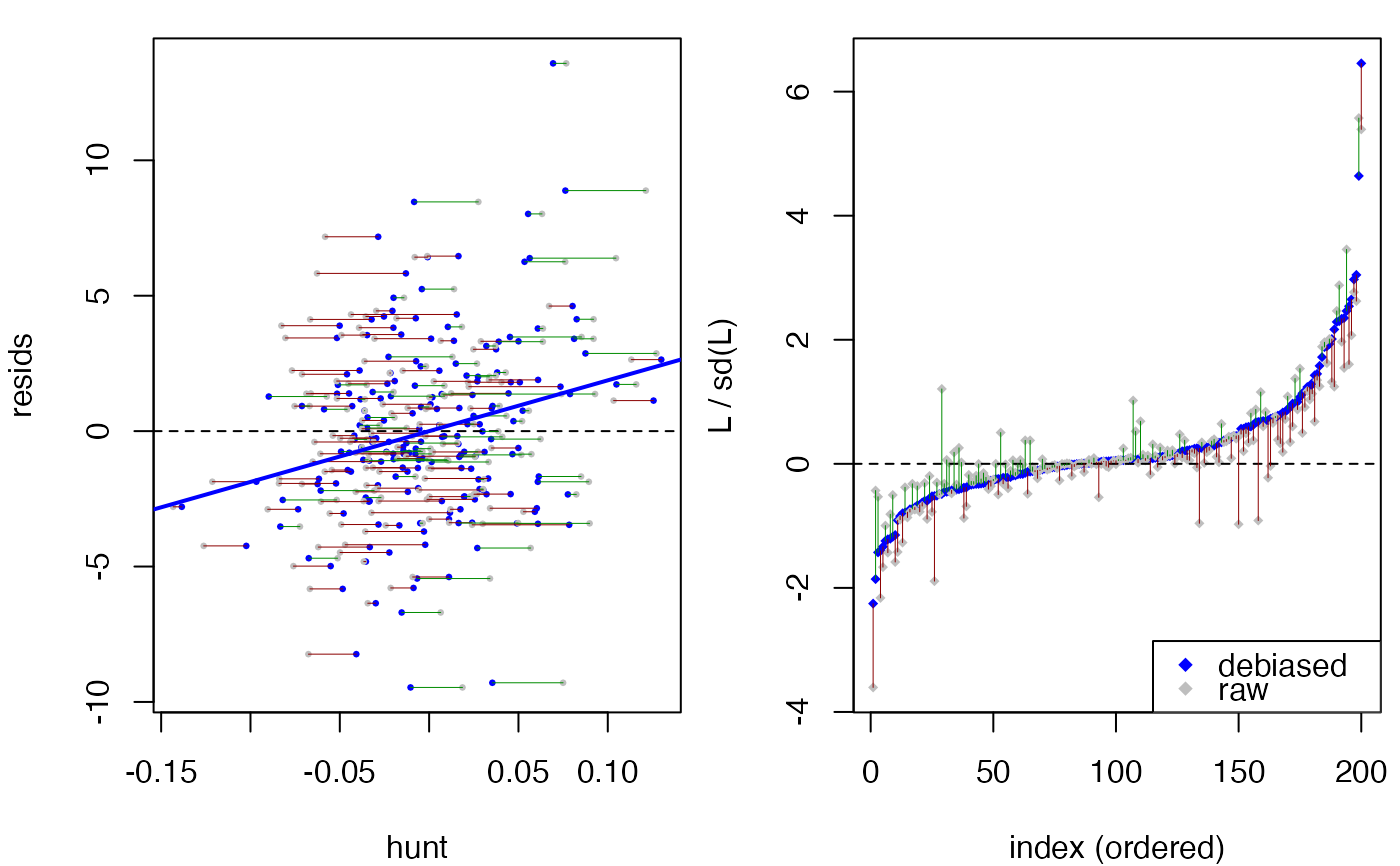
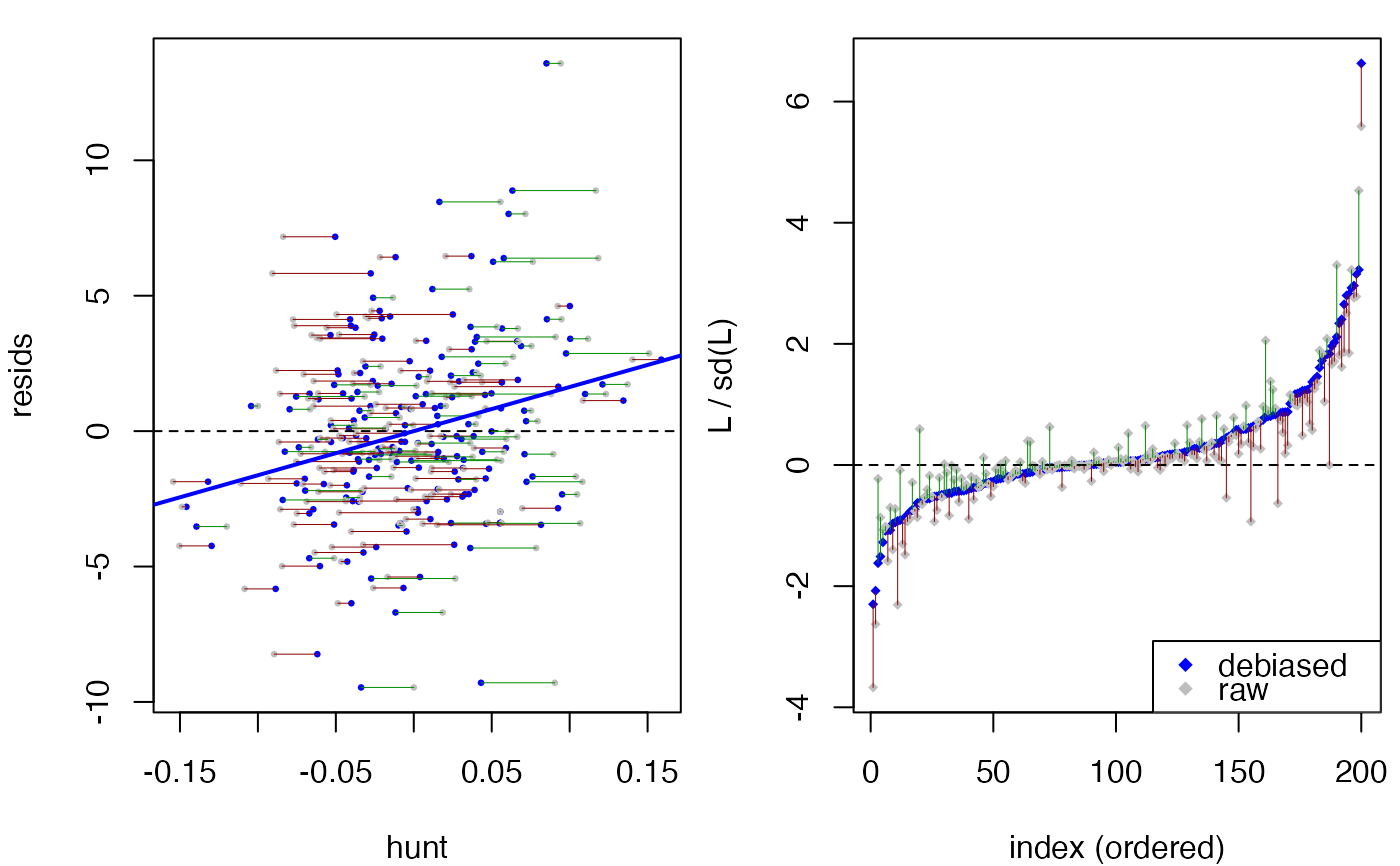
Built site for dScoreTest@0.1.0:

diff --git a/articles/glm.html b/articles/glm.html
@@ -1,0 +1,201 @@
+<!DOCTYPE html>
+<!-- Generated by pkgdown: do not edit by hand --><html lang="en">
+<head>
+<meta http-equiv="Content-Type" content="text/html; charset=UTF-8">
+<meta charset="utf-8">
+<meta http-equiv="X-UA-Compatible" content="IE=edge">
+<meta name="viewport" content="width=device-width, initial-scale=1, shrink-to-fit=no">
+<title>Link function in GLM • dScoreTest</title>
+<!-- favicons --><link rel="icon" type="image/png" sizes="96x96" href="../favicon-96x96.png">
+<link rel="icon" type="”image/svg+xml”" href="../favicon.svg">
+<link rel="apple-touch-icon" sizes="180x180" href="../apple-touch-icon.png">
+<link rel="icon" sizes="any" href="../favicon.ico">
+<link rel="manifest" href="../site.webmanifest">
+<script src="../deps/jquery-3.6.0/jquery-3.6.0.min.js"></script><meta name="viewport" content="width=device-width, initial-scale=1, shrink-to-fit=no">
+<link href="../deps/bootstrap-5.3.1/bootstrap.min.css" rel="stylesheet">
+<script src="../deps/bootstrap-5.3.1/bootstrap.bundle.min.js"></script><link href="../deps/font-awesome-6.5.2/css/all.min.css" rel="stylesheet">
+<link href="../deps/font-awesome-6.5.2/css/v4-shims.min.css" rel="stylesheet">
+<script src="../deps/headroom-0.11.0/headroom.min.js"></script><script src="../deps/headroom-0.11.0/jQuery.headroom.min.js"></script><script src="../deps/bootstrap-toc-1.0.1/bootstrap-toc.min.js"></script><script src="../deps/clipboard.js-2.0.11/clipboard.min.js"></script><script src="../deps/search-1.0.0/autocomplete.jquery.min.js"></script><script src="../deps/search-1.0.0/fuse.min.js"></script><script src="../deps/search-1.0.0/mark.min.js"></script><!-- pkgdown --><script src="../pkgdown.js"></script><meta property="og:title" content="Link function in GLM">
+</head>
+<body>
+    <a href="#main" class="visually-hidden-focusable">Skip to contents</a>
+
+
+    <nav class="navbar navbar-expand-lg fixed-top bg-light" data-bs-theme="light" aria-label="Site navigation"><div class="container">
+
+    <a class="navbar-brand me-2" href="../index.html">dScoreTest</a>
+
+    <small class="nav-text text-muted me-auto" data-bs-toggle="tooltip" data-bs-placement="bottom" title="">0.1.0</small>
+
+
+    <button class="navbar-toggler" type="button" data-bs-toggle="collapse" data-bs-target="#navbar" aria-controls="navbar" aria-expanded="false" aria-label="Toggle navigation">
+      <span class="navbar-toggler-icon"></span>
+    </button>
+
+    <div id="navbar" class="collapse navbar-collapse ms-3">
+      <ul class="navbar-nav me-auto">
+<li class="nav-item"><a class="nav-link" href="../articles/dScoreTest.html">Get started</a></li>
+<li class="nav-item"><a class="nav-link" href="../reference/index.html">Reference</a></li>
+<li class="nav-item dropdown">
+  <button class="nav-link dropdown-toggle" type="button" id="dropdown-articles" data-bs-toggle="dropdown" aria-expanded="false" aria-haspopup="true">Articles</button>
+  <ul class="dropdown-menu" aria-labelledby="dropdown-articles">
+<li><a class="dropdown-item" href="../articles/gam.html">Checking generalized additive models</a></li>
+    <li><a class="dropdown-item" href="../articles/glm.html">Link function in GLM</a></li>
+  </ul>
+</li>
+      </ul>
+<ul class="navbar-nav">
+<li class="nav-item"><form class="form-inline" role="search">
+ <input class="form-control" type="search" name="search-input" id="search-input" autocomplete="off" aria-label="Search site" placeholder="Search for" data-search-index="../search.json">
+</form></li>
+<li class="nav-item"><a class="external-link nav-link" href="https://github.com/richardkwo/dScoreTest/" aria-label="GitHub"><span class="fa fab fa-github fa-lg"></span></a></li>
+      </ul>
+</div>
+
+
+  </div>
+</nav><div class="container template-article">
+
+
+
+
+<div class="row">
+  <main id="main" class="col-md-9"><div class="page-header">
+      <img src="../logo.png" class="logo" alt=""><h1>Link function in GLM</h1>
+            
+      
+      <small class="dont-index">Source: <a href="https://github.com/richardkwo/dScoreTest/blob/HEAD/vignettes/articles/glm.Rmd" class="external-link"><code>vignettes/articles/glm.Rmd</code></a></small>
+      <div class="d-none name"><code>glm.Rmd</code></div>
+    </div>
+
+    
+    
+<div class="sourceCode" id="cb1"><pre class="downlit sourceCode r">
+<code class="sourceCode R"><span><span class="kw"><a href="https://rdrr.io/r/base/library.html" class="external-link">library</a></span><span class="op">(</span><span class="va">dScoreTest</span><span class="op">)</span></span></code></pre></div>
+<p>The package can be used to check and compare (generalized) linear
+models with a non-canonical link function. Based on covariates
+<math display="inline" xmlns="http://www.w3.org/1998/Math/MathML"><semantics><mrow><msub><mi>X</mi><mn>1</mn></msub><mo>,</mo><msub><mi>X</mi><mn>2</mn></msub><mo>,</mo><msub><mi>X</mi><mn>3</mn></msub></mrow><annotation encoding="application/x-tex">X_1, X_2, X_3</annotation></semantics></math>,
+suppose the response is generated as
+<math display="block" xmlns="http://www.w3.org/1998/Math/MathML"><semantics><mrow><mi>Y</mi><mo>=</mo><mn>5</mn><mrow><mi mathvariant="normal">exp</mi><mo></mo></mrow><mo stretchy="false" form="prefix">(</mo><msub><mi>X</mi><mn>1</mn></msub><mo>+</mo><msub><mi>X</mi><mn>3</mn></msub><mo stretchy="false" form="postfix">)</mo><mo>+</mo><mi>ε</mi><mo>,</mo><mspace width="1.0em"></mspace><mi mathvariant="double-struck">𝔼</mi><mo stretchy="false" form="prefix">[</mo><mi>ε</mi><mo>∣</mo><mi>X</mi><mo stretchy="false" form="postfix">]</mo><mo>=</mo><mn>0</mn><mi>.</mi></mrow><annotation encoding="application/x-tex"> Y = 5 \exp(X_1 + X_3) + \varepsilon, \quad \mathbb{E}[\varepsilon \mid X] = 0. </annotation></semantics></math>
+In other words, the regression model is specified as
+<math display="block" xmlns="http://www.w3.org/1998/Math/MathML"><semantics><mrow><mrow><mi mathvariant="normal">log</mi><mo></mo></mrow><mi mathvariant="double-struck">𝔼</mi><mo stretchy="false" form="prefix">[</mo><mi>Y</mi><mo>∣</mo><mi>X</mi><mo stretchy="false" form="postfix">]</mo><mo>=</mo><mi>α</mi><mo>+</mo><msub><mi>β</mi><mn>1</mn></msub><msub><mi>X</mi><mn>1</mn></msub><mo>+</mo><msub><mi>β</mi><mn>2</mn></msub><msub><mi>X</mi><mn>2</mn></msub><mo>+</mo><msub><mi>β</mi><mn>3</mn></msub><msub><mi>X</mi><mn>3</mn></msub><mi>.</mi></mrow><annotation encoding="application/x-tex"> \log \mathbb{E}[Y \mid X] = \alpha + \beta_1 X_1 + \beta_2 X_2 + \beta_3 X_3.</annotation></semantics></math>
+To fit this generalized linear model, we must use the <em>non-canonical
+link</em> <code>family = gaussian(link = "log")</code>. Here is a simple
+simulation.</p>
+<div class="sourceCode" id="cb2"><pre class="downlit sourceCode r">
+<code class="sourceCode R"><span><span class="fu"><a href="https://rdrr.io/r/base/Random.html" class="external-link">set.seed</a></span><span class="op">(</span><span class="fl">42</span><span class="op">)</span></span>
+<span><span class="va">n</span> <span class="op">&lt;-</span> <span class="fl">1000</span></span>
+<span><span class="va">X</span> <span class="op">&lt;-</span> <span class="fu"><a href="https://rdrr.io/r/base/matrix.html" class="external-link">matrix</a></span><span class="op">(</span><span class="fu"><a href="https://rdrr.io/r/stats/Normal.html" class="external-link">rnorm</a></span><span class="op">(</span><span class="va">n</span> <span class="op">*</span> <span class="fl">3</span><span class="op">)</span>, nrow <span class="op">=</span> <span class="va">n</span><span class="op">)</span></span>
+<span><span class="va">X</span><span class="op">[</span>,<span class="fl">2</span><span class="op">]</span> <span class="op">&lt;-</span> <span class="va">X</span><span class="op">[</span>,<span class="fl">2</span><span class="op">]</span> <span class="op">+</span> <span class="fl">0.2</span> <span class="op">*</span> <span class="va">X</span><span class="op">[</span>,<span class="fl">1</span><span class="op">]</span> <span class="op">-</span> <span class="fl">0.3</span> <span class="op">*</span> <span class="va">X</span><span class="op">[</span>,<span class="fl">3</span><span class="op">]</span> </span>
+<span><span class="va">X</span><span class="op">[</span>,<span class="fl">3</span><span class="op">]</span> <span class="op">&lt;-</span> <span class="va">X</span><span class="op">[</span>,<span class="fl">3</span><span class="op">]</span> <span class="op">+</span> <span class="fl">0.1</span> <span class="op">*</span> <span class="va">X</span><span class="op">[</span>,<span class="fl">1</span><span class="op">]</span></span>
+<span><span class="va">f</span> <span class="op">&lt;-</span> <span class="fl">5</span> <span class="op">*</span> <span class="fu"><a href="https://rdrr.io/r/base/Log.html" class="external-link">exp</a></span><span class="op">(</span><span class="va">X</span><span class="op">[</span>,<span class="fl">1</span><span class="op">]</span> <span class="op">+</span> <span class="va">X</span><span class="op">[</span>,<span class="fl">3</span><span class="op">]</span><span class="op">)</span> </span>
+<span><span class="va">y0</span> <span class="op">&lt;-</span> <span class="va">f</span> <span class="op">+</span> <span class="fl">10</span> <span class="op">*</span> <span class="fu"><a href="https://rdrr.io/r/stats/Normal.html" class="external-link">rnorm</a></span><span class="op">(</span><span class="va">n</span><span class="op">)</span></span>
+<span><span class="fu"><a href="https://rdrr.io/r/graphics/plot.default.html" class="external-link">plot</a></span><span class="op">(</span><span class="va">X</span><span class="op">[</span>,<span class="fl">1</span><span class="op">]</span> <span class="op">+</span> <span class="va">X</span><span class="op">[</span>,<span class="fl">3</span><span class="op">]</span>, <span class="va">y0</span>, pch<span class="op">=</span><span class="fl">20</span>, cex<span class="op">=</span><span class="fl">0.5</span><span class="op">)</span></span>
+<span><span class="fu"><a href="https://rdrr.io/r/graphics/curve.html" class="external-link">curve</a></span><span class="op">(</span><span class="fl">5</span> <span class="op">*</span> <span class="fu"><a href="https://rdrr.io/r/base/Log.html" class="external-link">exp</a></span><span class="op">(</span><span class="va">x</span><span class="op">)</span>, <span class="op">-</span><span class="fl">5</span>, <span class="fl">5</span>, add<span class="op">=</span><span class="cn">TRUE</span>, lwd<span class="op">=</span><span class="fl">2</span>, col<span class="op">=</span><span class="st">"red"</span><span class="op">)</span></span></code></pre></div>
+<p><img src="glm_files/figure-html/unnamed-chunk-2-1.png" class="r-plt" alt="" width="100%"></p>
+<p>For testing the model specification, we use:</p>
+<div class="sourceCode" id="cb3"><pre class="downlit sourceCode r">
+<code class="sourceCode R"><span><span class="co"># use a start value to help fitting</span></span>
+<span><span class="va">dat</span> <span class="op">&lt;-</span> <span class="fu"><a href="https://rdrr.io/r/base/data.frame.html" class="external-link">data.frame</a></span><span class="op">(</span>y0<span class="op">=</span><span class="va">y0</span>, X1<span class="op">=</span><span class="va">X</span><span class="op">[</span>,<span class="fl">1</span><span class="op">]</span>, X2<span class="op">=</span><span class="va">X</span><span class="op">[</span>,<span class="fl">2</span><span class="op">]</span>, X3<span class="op">=</span><span class="va">X</span><span class="op">[</span>,<span class="fl">3</span><span class="op">]</span><span class="op">)</span></span>
+<span><span class="va">fit.0</span> <span class="op">&lt;-</span> <span class="fu"><a href="https://rdrr.io/r/stats/glm.html" class="external-link">glm</a></span><span class="op">(</span><span class="va">y0</span> <span class="op">~</span> <span class="va">.</span>, family <span class="op">=</span> <span class="fu"><a href="https://rdrr.io/r/stats/family.html" class="external-link">gaussian</a></span><span class="op">(</span>link <span class="op">=</span> <span class="st">"log"</span><span class="op">)</span>, data<span class="op">=</span><span class="va">dat</span>, start<span class="op">=</span><span class="fu"><a href="https://rdrr.io/r/base/rep.html" class="external-link">rep</a></span><span class="op">(</span><span class="fl">1</span>,<span class="fl">4</span><span class="op">)</span><span class="op">)</span></span>
+<span><span class="va">fit.0</span></span>
+<span><span class="co">#&gt; </span></span>
+<span><span class="co">#&gt; Call:  glm(formula = y0 ~ ., family = gaussian(link = "log"), data = dat, </span></span>
+<span><span class="co">#&gt;     start = rep(1, 4))</span></span>
+<span><span class="co">#&gt; </span></span>
+<span><span class="co">#&gt; Coefficients:</span></span>
+<span><span class="co">#&gt; (Intercept)           X1           X2           X3  </span></span>
+<span><span class="co">#&gt;    1.587816     1.007276     0.003866     1.007188  </span></span>
+<span><span class="co">#&gt; </span></span>
+<span><span class="co">#&gt; Degrees of Freedom: 999 Total (i.e. Null);  996 Residual</span></span>
+<span><span class="co">#&gt; Null Deviance:       1183000 </span></span>
+<span><span class="co">#&gt; Residual Deviance: 97820     AIC: 7431</span></span>
+<span><span class="va">test.0</span> <span class="op">&lt;-</span> <span class="fu"><a href="../reference/gof_test.html">gof_test</a></span><span class="op">(</span><span class="va">fit.0</span><span class="op">)</span></span>
+<span><span class="va">test.0</span></span>
+<span><span class="co">#&gt; Debiased score test: </span></span>
+<span><span class="co">#&gt; y ~ X, with X consists of (Intercept), X1, X2, X3.</span></span>
+<span><span class="co">#&gt; (hunt.style = optimal, hunt.method = grf)</span></span>
+<span><span class="co">#&gt; n = 1000, two-way split: hunt = 500, debias &amp; test = 500</span></span>
+<span><span class="co">#&gt; </span></span>
+<span><span class="co">#&gt; T = -1.8171, p-value = 0.965397</span></span></code></pre></div>
+<p>Incorrect specification of the link can be detected by the
+goodness-of-fit test.</p>
+<div class="sourceCode" id="cb4"><pre class="downlit sourceCode r">
+<code class="sourceCode R"><span><span class="co"># identity link</span></span>
+<span><span class="va">fit.1</span> <span class="op">&lt;-</span> <span class="fu"><a href="https://rdrr.io/r/stats/glm.html" class="external-link">glm</a></span><span class="op">(</span><span class="va">y0</span> <span class="op">~</span> <span class="va">.</span>, family <span class="op">=</span> <span class="fu"><a href="https://rdrr.io/r/stats/family.html" class="external-link">gaussian</a></span><span class="op">(</span><span class="op">)</span>, data<span class="op">=</span><span class="va">dat</span>, start<span class="op">=</span><span class="fu"><a href="https://rdrr.io/r/base/rep.html" class="external-link">rep</a></span><span class="op">(</span><span class="fl">1</span>,<span class="fl">4</span><span class="op">)</span><span class="op">)</span></span>
+<span><span class="va">test.1</span> <span class="op">&lt;-</span> <span class="fu"><a href="../reference/gof_test.html">gof_test</a></span><span class="op">(</span><span class="va">fit.1</span><span class="op">)</span></span>
+<span><span class="va">test.1</span></span>
+<span><span class="co">#&gt; Debiased score test: </span></span>
+<span><span class="co">#&gt; y ~ X, with X consists of (Intercept), X1, X2, X3.</span></span>
+<span><span class="co">#&gt; (hunt.style = optimal, hunt.method = grf)</span></span>
+<span><span class="co">#&gt; n = 1000, two-way split: hunt = 500, debias &amp; test = 500</span></span>
+<span><span class="co">#&gt; </span></span>
+<span><span class="co">#&gt; T = 6.6790, p-value = 1.20309e-11</span></span>
+<span><span class="fu"><a href="https://rdrr.io/r/graphics/plot.default.html" class="external-link">plot</a></span><span class="op">(</span><span class="va">test.1</span><span class="op">)</span></span></code></pre></div>
+<p><img src="glm_files/figure-html/unnamed-chunk-4-1.png" class="r-plt" alt="" width="100%"><img src="glm_files/figure-html/unnamed-chunk-4-2.png" class="r-plt" alt="" width="100%"></p>
+<p>We can further use <code>compare_models</code> to assess the
+significance of predictors:</p>
+<div class="sourceCode" id="cb5"><pre class="downlit sourceCode r">
+<code class="sourceCode R"><span><span class="co"># significance of X2</span></span>
+<span><span class="va">fit.drop2</span> <span class="op">&lt;-</span> <span class="fu"><a href="https://rdrr.io/r/stats/glm.html" class="external-link">glm</a></span><span class="op">(</span><span class="va">y0</span> <span class="op">~</span> <span class="va">X1</span> <span class="op">+</span> <span class="va">X3</span>, family <span class="op">=</span> <span class="fu"><a href="https://rdrr.io/r/stats/family.html" class="external-link">gaussian</a></span><span class="op">(</span>link <span class="op">=</span> <span class="st">"log"</span><span class="op">)</span>, </span>
+<span>                  data<span class="op">=</span><span class="va">dat</span>, start<span class="op">=</span><span class="fu"><a href="https://rdrr.io/r/base/rep.html" class="external-link">rep</a></span><span class="op">(</span><span class="fl">1</span>,<span class="fl">3</span><span class="op">)</span><span class="op">)</span></span>
+<span><span class="fu"><a href="../reference/compare_models.html">compare_models</a></span><span class="op">(</span><span class="va">fit.drop2</span>, <span class="va">fit.0</span><span class="op">)</span></span>
+<span><span class="co">#&gt; Debiased score test: </span></span>
+<span><span class="co">#&gt; y ~ X, with X consists of (Intercept), X1, X2, X3.</span></span>
+<span><span class="co">#&gt; (hunt.style = optimal, hunt.method = glm)</span></span>
+<span><span class="co">#&gt; n = 1000, two-way split: hunt = 500, debias &amp; test = 500</span></span>
+<span><span class="co">#&gt; </span></span>
+<span><span class="co">#&gt; T = -0.3890, p-value = 0.651351</span></span>
+<span><span class="co"># compare with anova</span></span>
+<span><span class="fu"><a href="https://rdrr.io/r/stats/anova.html" class="external-link">anova</a></span><span class="op">(</span><span class="va">fit.0</span>, <span class="va">fit.drop2</span><span class="op">)</span></span>
+<span><span class="co">#&gt; Analysis of Deviance Table</span></span>
+<span><span class="co">#&gt; </span></span>
+<span><span class="co">#&gt; Model 1: y0 ~ X1 + X2 + X3</span></span>
+<span><span class="co">#&gt; Model 2: y0 ~ X1 + X3</span></span>
+<span><span class="co">#&gt;   Resid. Df Resid. Dev Df Deviance      F Pr(&gt;F)</span></span>
+<span><span class="co">#&gt; 1       996      97818                          </span></span>
+<span><span class="co">#&gt; 2       997      97829 -1  -11.764 0.1198 0.7293</span></span>
+<span></span>
+<span><span class="co"># significance of (X2, X3) together</span></span>
+<span><span class="va">fit.drop23</span> <span class="op">&lt;-</span> <span class="fu"><a href="https://rdrr.io/r/stats/glm.html" class="external-link">glm</a></span><span class="op">(</span><span class="va">y0</span> <span class="op">~</span> <span class="va">X1</span>, family <span class="op">=</span> <span class="fu"><a href="https://rdrr.io/r/stats/family.html" class="external-link">gaussian</a></span><span class="op">(</span>link <span class="op">=</span> <span class="st">"log"</span><span class="op">)</span>, </span>
+<span>                  data<span class="op">=</span><span class="va">dat</span>, start<span class="op">=</span><span class="fu"><a href="https://rdrr.io/r/base/rep.html" class="external-link">rep</a></span><span class="op">(</span><span class="fl">1</span>,<span class="fl">2</span><span class="op">)</span><span class="op">)</span></span>
+<span><span class="fu"><a href="../reference/compare_models.html">compare_models</a></span><span class="op">(</span><span class="va">fit.drop23</span>, <span class="va">fit.0</span><span class="op">)</span></span>
+<span><span class="co">#&gt; Debiased score test: </span></span>
+<span><span class="co">#&gt; y ~ X, with X consists of (Intercept), X1, X2, X3.</span></span>
+<span><span class="co">#&gt; (hunt.style = optimal, hunt.method = glm)</span></span>
+<span><span class="co">#&gt; n = 1000, two-way split: hunt = 500, debias &amp; test = 500</span></span>
+<span><span class="co">#&gt; </span></span>
+<span><span class="co">#&gt; T = 3.3959, p-value = 0.000341982</span></span>
+<span><span class="co"># compare with anova</span></span>
+<span><span class="fu"><a href="https://rdrr.io/r/stats/anova.html" class="external-link">anova</a></span><span class="op">(</span><span class="va">fit.0</span>, <span class="va">fit.drop23</span><span class="op">)</span></span>
+<span><span class="co">#&gt; Analysis of Deviance Table</span></span>
+<span><span class="co">#&gt; </span></span>
+<span><span class="co">#&gt; Model 1: y0 ~ X1 + X2 + X3</span></span>
+<span><span class="co">#&gt; Model 2: y0 ~ X1</span></span>
+<span><span class="co">#&gt;   Resid. Df Resid. Dev Df Deviance      F    Pr(&gt;F)    </span></span>
+<span><span class="co">#&gt; 1       996      97818                                 </span></span>
+<span><span class="co">#&gt; 2       998     876971 -2  -779153 3966.7 &lt; 2.2e-16 ***</span></span>
+<span><span class="co">#&gt; ---</span></span>
+<span><span class="co">#&gt; Signif. codes:  0 '***' 0.001 '**' 0.01 '*' 0.05 '.' 0.1 ' ' 1</span></span></code></pre></div>
+  </main>
+</div>
+
+
+
+    <footer><div class="pkgdown-footer-left">
+  <p>Developed by F. Richard Guo, Aditya Dhawan.</p>
+</div>
+
+<div class="pkgdown-footer-right">
+  <p>Site built with <a href="https://pkgdown.r-lib.org/" class="external-link">pkgdown</a> 2.2.0.</p>
+</div>
+
+    </footer>
+</div>
+
+
+
+
+
+  </body>
+</html>

diff --git a/articles/articles/glm.html b/articles/articles/glm.html
@@ -1,0 +1,8 @@
+<html>
+  <head>
+    <meta http-equiv="refresh" content="0;URL=https://unbiased.co.in/dScoreTest/articles/glm.html" />
+    <meta name="robots" content="noindex">
+    <link rel="canonical" href="https://unbiased.co.in/dScoreTest/articles/glm.html">
+  </head>
+</html>
+

diff --git a/articles/gam.html b/articles/gam.html
@@ -40,6 +40,7 @@
   <button class="nav-link dropdown-toggle" type="button" id="dropdown-articles" data-bs-toggle="dropdown" aria-expanded="false" aria-haspopup="true">Articles</button>
   <ul class="dropdown-menu" aria-labelledby="dropdown-articles">
 <li><a class="dropdown-item" href="../articles/gam.html">Checking generalized additive models</a></li>
+    <li><a class="dropdown-item" href="../articles/glm.html">Link function in GLM</a></li>
   </ul>
 </li>
       </ul>
@@ -122,7 +123,7 @@ the model is rejected.</p>
 <span><span class="co">#&gt; (hunt.style = optimal, hunt.method = grf)</span></span>
 <span><span class="co">#&gt; n = 400, two-way split: hunt = 200, debias &amp; test = 200</span></span>
 <span><span class="co">#&gt; </span></span>
-<span><span class="co">#&gt; T = 9.7238, p-value = 1.19302e-22</span></span></code></pre></div>
+<span><span class="co">#&gt; T = 9.4008, p-value = 2.70739e-21</span></span></code></pre></div>
 <p>In fact, since
 <math display="inline" xmlns="http://www.w3.org/1998/Math/MathML"><semantics><mrow><msub><mi>f</mi><mn>3</mn></msub><mo>=</mo><mn>0</mn></mrow><annotation encoding="application/x-tex">f_3=0</annotation></semantics></math>
 in the data-generating mechanism, an additive regression model without
@@ -405,7 +406,7 @@ between splits (cf. the harmonic-mean p-value of Wilson, 2019):</p>
 <code class="sourceCode R"><span><span class="fu"><a href="https://rdrr.io/r/base/Random.html" class="external-link">set.seed</a></span><span class="op">(</span><span class="fl">42</span><span class="op">)</span></span>
 <span><span class="va">pvals</span> <span class="op">&lt;-</span> <span class="fu"><a href="https://rdrr.io/r/base/lapply.html" class="external-link">replicate</a></span><span class="op">(</span><span class="fl">200</span>, <span class="fu"><a href="../reference/compare_models.html">compare_models</a></span><span class="op">(</span><span class="va">fit.0</span>, <span class="va">fit.1</span><span class="op">)</span><span class="op">$</span><span class="va">p.val</span><span class="op">)</span></span>
 <span><span class="fl">1</span> <span class="op">/</span> <span class="fu"><a href="https://rdrr.io/r/base/mean.html" class="external-link">mean</a></span><span class="op">(</span><span class="fl">1</span> <span class="op">/</span> <span class="va">pvals</span><span class="op">)</span>   <span class="co"># harmonic-mean p-value</span></span>
-<span><span class="co">#&gt; [1] 0.01681002</span></span></code></pre></div>
+<span><span class="co">#&gt; [1] 0.01681</span></span></code></pre></div>
 <p>The aggregated p-value seems to agree with the mgcv’s result.</p>
 </div>
 </div>

diff --git a/articles/index.html b/articles/index.html
@@ -20,6 +20,7 @@
 <li class="nav-item dropdown">
   <button class="nav-link dropdown-toggle" type="button" id="dropdown-articles" data-bs-toggle="dropdown" aria-expanded="false" aria-haspopup="true">Articles</button>
   <ul class="dropdown-menu" aria-labelledby="dropdown-articles"><li><a class="dropdown-item" href="../articles/gam.html">Checking generalized additive models</a></li>
+    <li><a class="dropdown-item" href="../articles/glm.html">Link function in GLM</a></li>
   </ul></li>
       </ul><ul class="navbar-nav"><li class="nav-item"><form class="form-inline" role="search">
  <input class="form-control" type="search" name="search-input" id="search-input" autocomplete="off" aria-label="Search site" placeholder="Search for" data-search-index="../search.json"></form></li>
@@ -41,6 +42,8 @@
       <dl><dt><a href="dScoreTest.html">Getting started with dScoreTest</a></dt>
         <dd>
         </dd><dt><a href="gam.html">Checking generalized additive models</a></dt>
+        <dd>
+        </dd><dt><a href="glm.html">Link function in GLM</a></dt>
         <dd>
       </dd></dl></div>
   </main></div>

diff --git a/404.html b/404.html
@@ -41,6 +41,7 @@
   <button class="nav-link dropdown-toggle" type="button" id="dropdown-articles" data-bs-toggle="dropdown" aria-expanded="false" aria-haspopup="true">Articles</button>
   <ul class="dropdown-menu" aria-labelledby="dropdown-articles">
 <li><a class="dropdown-item" href="https://unbiased.co.in/dScoreTest/articles/gam.html">Checking generalized additive models</a></li>
+    <li><a class="dropdown-item" href="https://unbiased.co.in/dScoreTest/articles/glm.html">Link function in GLM</a></li>
   </ul>
 </li>
       </ul>

diff --git a/LICENSE-text.html b/LICENSE-text.html
@@ -20,6 +20,7 @@
 <li class="nav-item dropdown">
   <button class="nav-link dropdown-toggle" type="button" id="dropdown-articles" data-bs-toggle="dropdown" aria-expanded="false" aria-haspopup="true">Articles</button>
   <ul class="dropdown-menu" aria-labelledby="dropdown-articles"><li><a class="dropdown-item" href="articles/gam.html">Checking generalized additive models</a></li>
+    <li><a class="dropdown-item" href="articles/glm.html">Link function in GLM</a></li>
   </ul></li>
       </ul><ul class="navbar-nav"><li class="nav-item"><form class="form-inline" role="search">
  <input class="form-control" type="search" name="search-input" id="search-input" autocomplete="off" aria-label="Search site" placeholder="Search for" data-search-index="search.json"></form></li>

diff --git a/LICENSE.html b/LICENSE.html
@@ -20,6 +20,7 @@
 <li class="nav-item dropdown">
   <button class="nav-link dropdown-toggle" type="button" id="dropdown-articles" data-bs-toggle="dropdown" aria-expanded="false" aria-haspopup="true">Articles</button>
   <ul class="dropdown-menu" aria-labelledby="dropdown-articles"><li><a class="dropdown-item" href="articles/gam.html">Checking generalized additive models</a></li>
+    <li><a class="dropdown-item" href="articles/glm.html">Link function in GLM</a></li>
   </ul></li>
       </ul><ul class="navbar-nav"><li class="nav-item"><form class="form-inline" role="search">
  <input class="form-control" type="search" name="search-input" id="search-input" autocomplete="off" aria-label="Search site" placeholder="Search for" data-search-index="search.json"></form></li>

diff --git a/articles/dScoreTest.html b/articles/dScoreTest.html
@@ -40,6 +40,7 @@
   <button class="nav-link dropdown-toggle" type="button" id="dropdown-articles" data-bs-toggle="dropdown" aria-expanded="false" aria-haspopup="true">Articles</button>
   <ul class="dropdown-menu" aria-labelledby="dropdown-articles">
 <li><a class="dropdown-item" href="../articles/gam.html">Checking generalized additive models</a></li>
+    <li><a class="dropdown-item" href="../articles/glm.html">Link function in GLM</a></li>
   </ul>
 </li>
       </ul>

diff --git a/authors.html b/authors.html
@@ -20,6 +20,7 @@
 <li class="nav-item dropdown">
   <button class="nav-link dropdown-toggle" type="button" id="dropdown-articles" data-bs-toggle="dropdown" aria-expanded="false" aria-haspopup="true">Articles</button>
   <ul class="dropdown-menu" aria-labelledby="dropdown-articles"><li><a class="dropdown-item" href="articles/gam.html">Checking generalized additive models</a></li>
+    <li><a class="dropdown-item" href="articles/glm.html">Link function in GLM</a></li>
   </ul></li>
       </ul><ul class="navbar-nav"><li class="nav-item"><form class="form-inline" role="search">
  <input class="form-control" type="search" name="search-input" id="search-input" autocomplete="off" aria-label="Search site" placeholder="Search for" data-search-index="search.json"></form></li>

diff --git a/index.html b/index.html
@@ -43,6 +43,7 @@
   <button class="nav-link dropdown-toggle" type="button" id="dropdown-articles" data-bs-toggle="dropdown" aria-expanded="false" aria-haspopup="true">Articles</button>
   <ul class="dropdown-menu" aria-labelledby="dropdown-articles">
 <li><a class="dropdown-item" href="articles/gam.html">Checking generalized additive models</a></li>
+    <li><a class="dropdown-item" href="articles/glm.html">Link function in GLM</a></li>
   </ul>
 </li>
       </ul>

diff --git a/reference/compare_models.gam.html b/reference/compare_models.gam.html
@@ -24,6 +24,7 @@ used to hunt for signal that fit.0 potentially misses."><meta property="og:image
 <li class="nav-item dropdown">
   <button class="nav-link dropdown-toggle" type="button" id="dropdown-articles" data-bs-toggle="dropdown" aria-expanded="false" aria-haspopup="true">Articles</button>
   <ul class="dropdown-menu" aria-labelledby="dropdown-articles"><li><a class="dropdown-item" href="../articles/gam.html">Checking generalized additive models</a></li>
+    <li><a class="dropdown-item" href="../articles/glm.html">Link function in GLM</a></li>
   </ul></li>
       </ul><ul class="navbar-nav"><li class="nav-item"><form class="form-inline" role="search">
  <input class="form-control" type="search" name="search-input" id="search-input" autocomplete="off" aria-label="Search site" placeholder="Search for" data-search-index="../search.json"></form></li>

diff --git a/reference/compare_models.glm.html b/reference/compare_models.glm.html
@@ -24,6 +24,7 @@ potentially misses."><meta property="og:image" content="https://unbiased.co.in/d
 <li class="nav-item dropdown">
   <button class="nav-link dropdown-toggle" type="button" id="dropdown-articles" data-bs-toggle="dropdown" aria-expanded="false" aria-haspopup="true">Articles</button>
   <ul class="dropdown-menu" aria-labelledby="dropdown-articles"><li><a class="dropdown-item" href="../articles/gam.html">Checking generalized additive models</a></li>
+    <li><a class="dropdown-item" href="../articles/glm.html">Link function in GLM</a></li>
   </ul></li>
       </ul><ul class="navbar-nav"><li class="nav-item"><form class="form-inline" role="search">
  <input class="form-control" type="search" name="search-input" id="search-input" autocomplete="off" aria-label="Search site" placeholder="Search for" data-search-index="../search.json"></form></li>